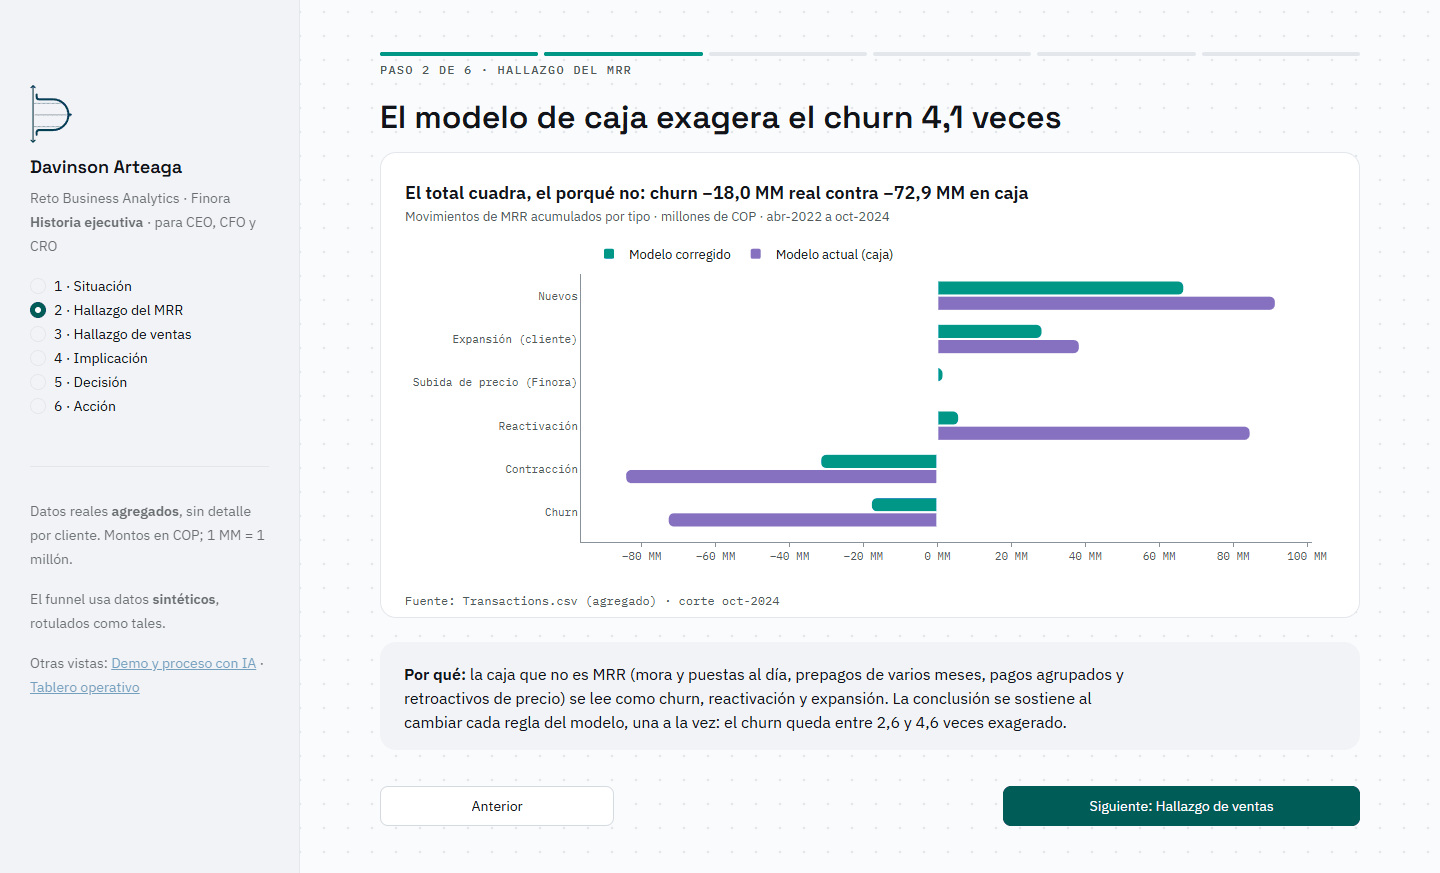
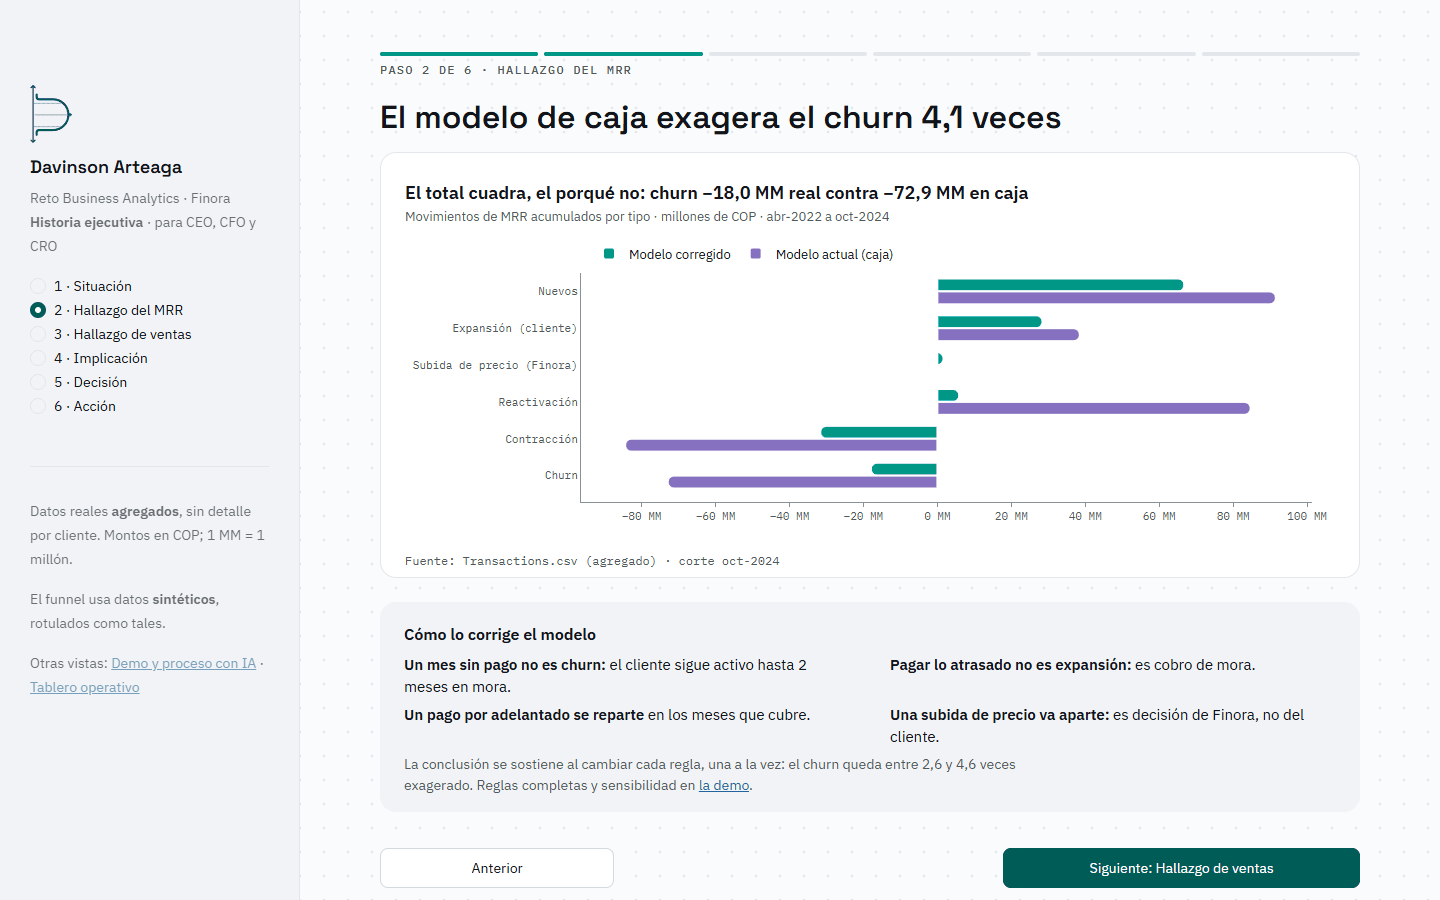
Historia: el paso 2 explica en cuatro reglas cómo corrige el modelo

diff --git a/app/historia.py b/app/historia.py
@@ -41,6 +41,10 @@ st.markdown(f"""<style>
 .hs-steps span.on {{ background:{T.viz[0]}; }}
 .hs-note {{ font:400 15px/24px var(--font-sans); color:var(--ink-muted); max-width:78ch; margin:0 0 8px; }}
 .hs-note b {{ color:var(--ink); }}
+.hs-rules {{ display:grid; grid-template-columns:1fr 1fr; gap:6px 40px; margin:8px 0 6px; }}
+.hs-rules div {{ font:400 15px/22px var(--font-sans); color:var(--ink); }}
+.hs-rules-foot {{ font:400 14px/21px var(--font-sans) !important; color:var(--ink-muted); margin:6px 0 0 !important; }}
+@media (max-width: 900px) {{ .hs-rules {{ grid-template-columns:1fr; }} }}
 /* la historia se graba a 1440 × 900: cada paso cabe sin desplazarse */
 .block-container {{ padding-top:1.25rem !important; padding-bottom:1rem !important; }}
 .da-row {{ padding:10px 0 !important; }}
@@ -135,11 +139,17 @@ elif i == 1:
     fig.update_xaxes(showgrid=True, gridcolor=T.line, ticksuffix=" MM")
     B.chart_frame("h_bridge", "",
                   f"El total cuadra, el porqué no: churn {F_['cor_churn']} MM real contra {F_['act_churn']} MM en caja",
-                  "Movimientos de MRR acumulados por tipo · millones de COP · abr-2022 a oct-2024", fig, None, SRC_TX, 340)
-    B.callout("<b>Por qué:</b> la caja que no es MRR (mora y puestas al día, prepagos de varios meses, pagos agrupados y "
-              "retroactivos de precio) se lee como churn, reactivación y expansión. La conclusión se sostiene al cambiar "
-              f"cada regla del modelo, una a la vez: el churn queda entre {F_['sens_xchurn_min']} y "
-              f"{F_['sens_xchurn_max']} veces exagerado.")
+                  "Movimientos de MRR acumulados por tipo · millones de COP · abr-2022 a oct-2024", fig, None, SRC_TX, 300)
+    demo = f'<a href="{C.LINKS["demo"]}?s=5">la demo</a>' if C.LINKS["demo"] else "la demo"
+    st.markdown(
+        '<div class="da-callout da-callout-info"><p><b>Cómo lo corrige el modelo</b></p><div class="hs-rules">'
+        "<div><b>Un mes sin pago no es churn:</b> el cliente sigue activo hasta 2 meses en mora.</div>"
+        "<div><b>Pagar lo atrasado no es expansión:</b> es cobro de mora.</div>"
+        "<div><b>Un pago por adelantado se reparte</b> en los meses que cubre.</div>"
+        "<div><b>Una subida de precio va aparte:</b> es decisión de Finora, no del cliente.</div></div>"
+        f'<p class="hs-rules-foot">La conclusión se sostiene al cambiar cada regla, una a la vez: el churn queda entre '
+        f"{F_['sens_xchurn_min']} y {F_['sens_xchurn_max']} veces exagerado. Reglas completas y sensibilidad en {demo}.</p>"
+        "</div>", unsafe_allow_html=True)
 
 # =====================================================================================
 elif i == 2:
